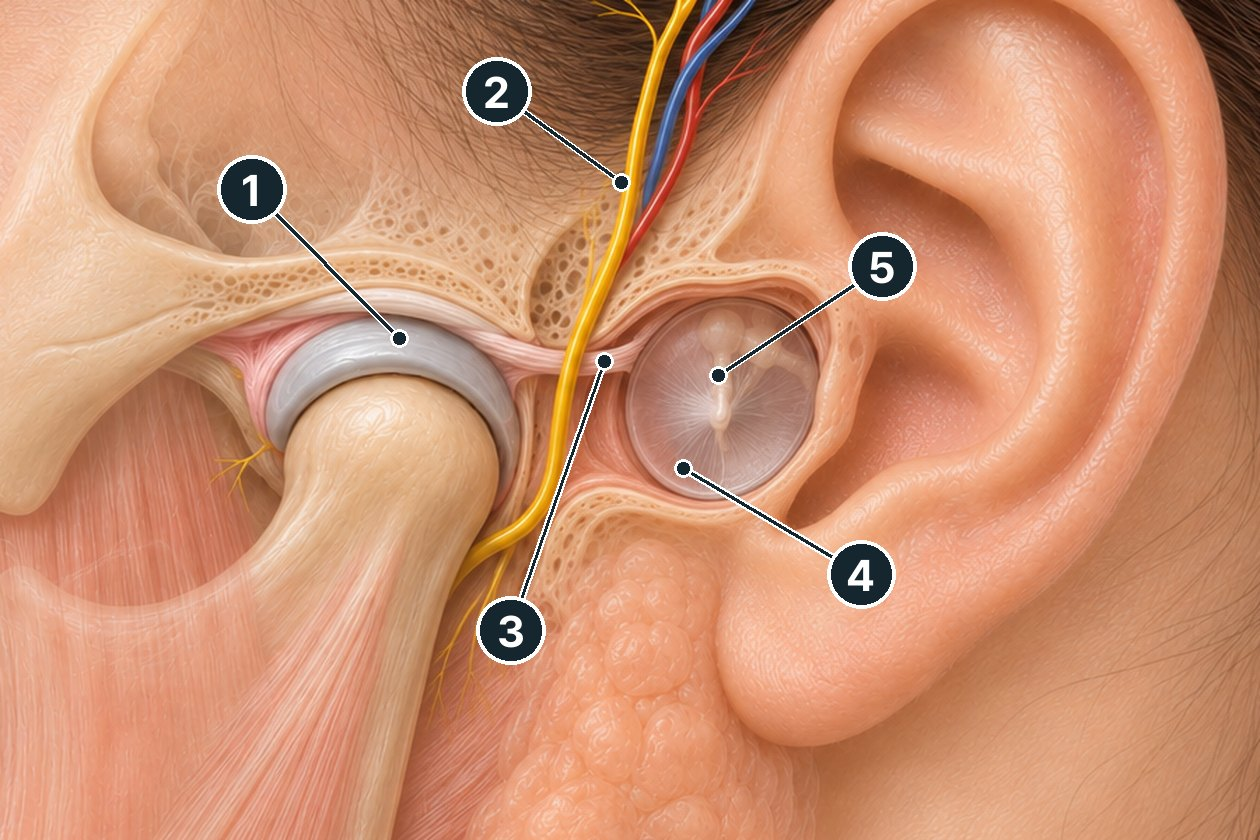
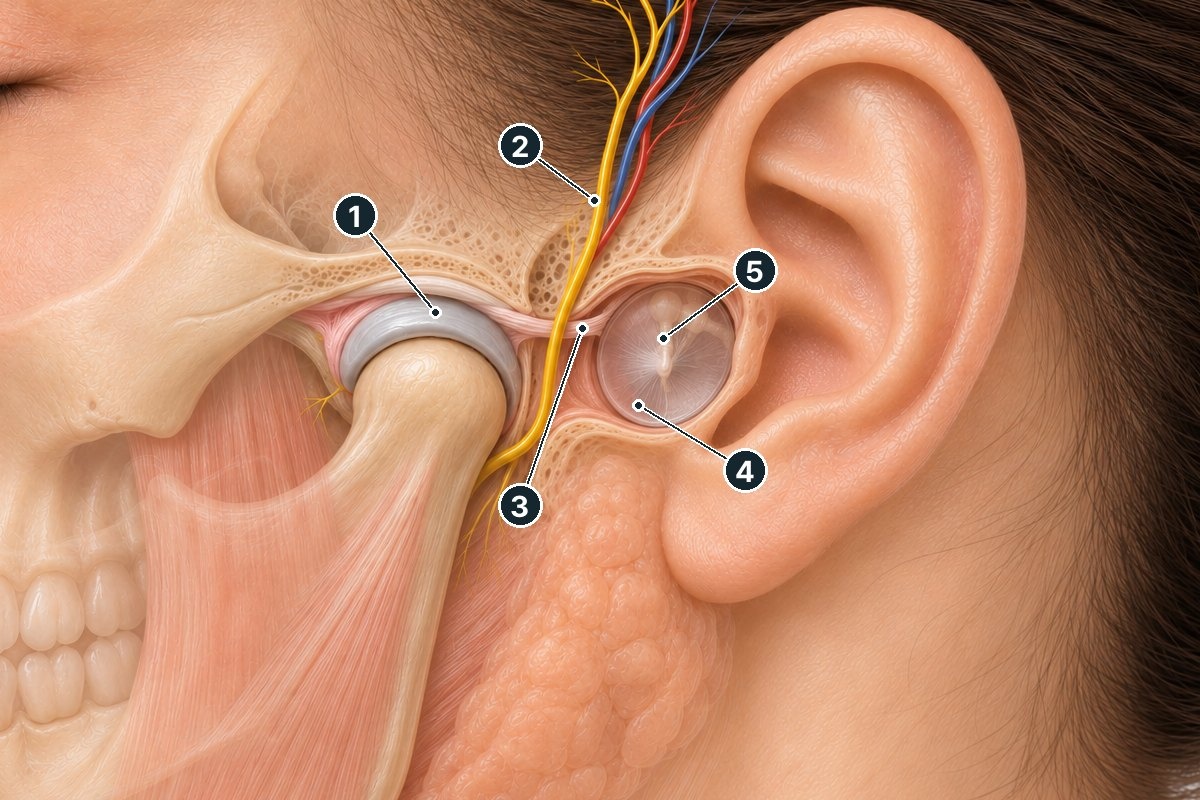
귀 증상 쪽 턱관절·귀 연결 그림: 덜 확대하고 번호 점을 작게, PC 폭 860→640px

diff --git a/sym-ear.html b/sym-ear.html
@@ -371,7 +371,7 @@ section.refs{padding-top:28px;padding-bottom:36px}
 .cmp{border:0;border-radius:0;background:none;border-top:2px solid var(--ink)}
 .cmp th,.cmp td{border-left:0;border-right:0;border-bottom:1px solid var(--line)}
 @media (max-width:560px){.sym{padding-left:0;padding-right:0}}
-.ear-link{max-width:860px;margin:40px auto 0}
+.ear-link{max-width:640px;margin:40px auto 0}
 .fig-legend{list-style:none;margin:14px 0 0;padding:0;display:grid;grid-template-columns:1fr 1fr;gap:8px 28px}
 .fig-legend li{display:flex;gap:10px;align-items:baseline;font-size:15px;color:var(--muted);line-height:1.5}
 .fig-legend b{color:var(--ink);font-weight:700;margin-right:4px}
